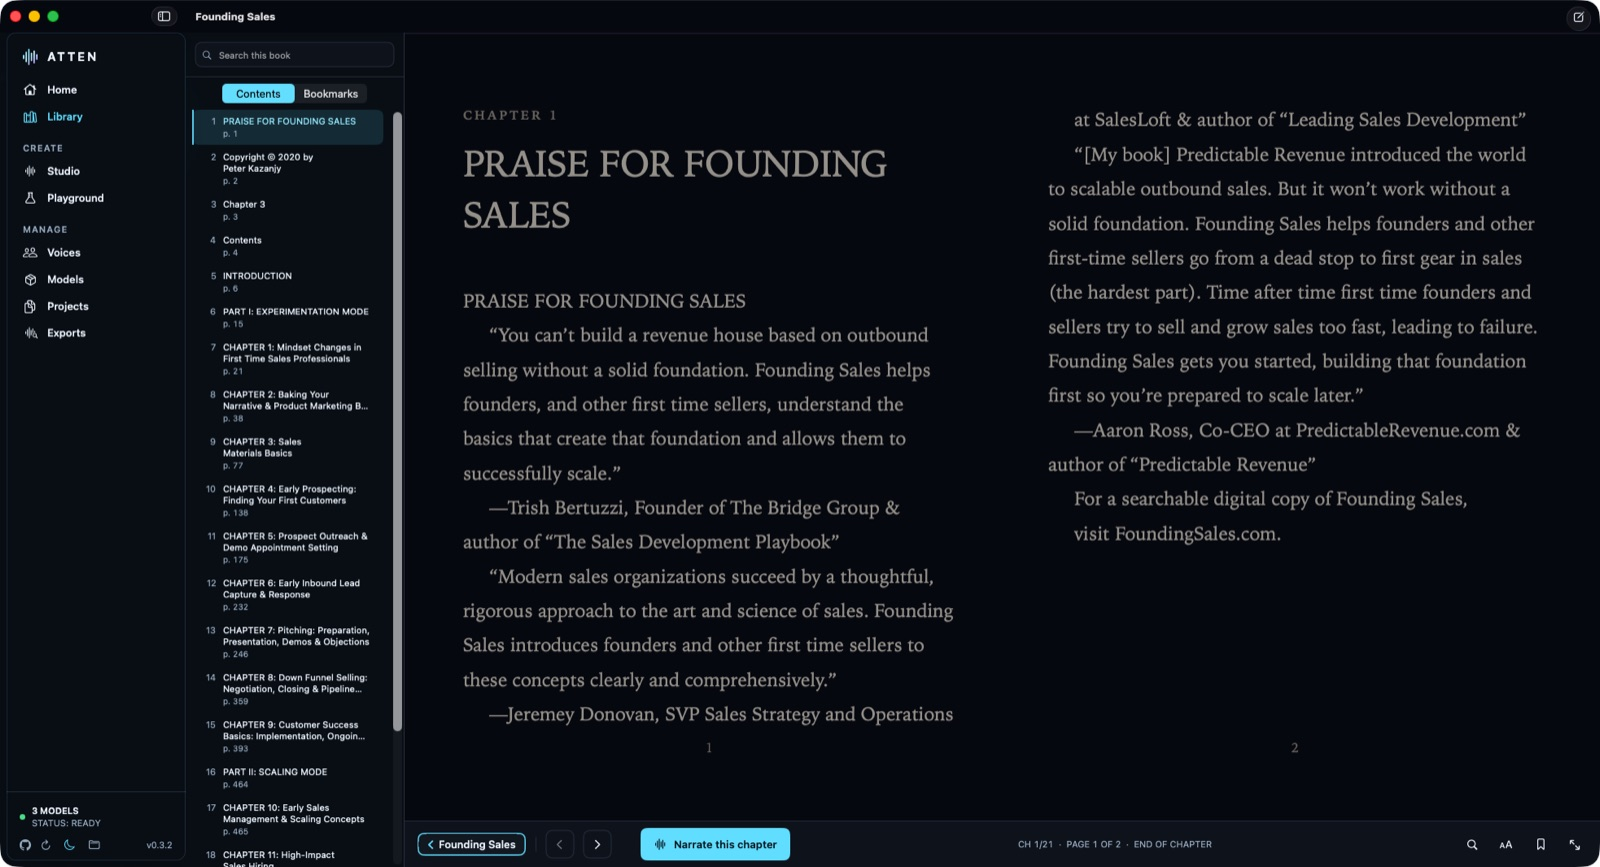
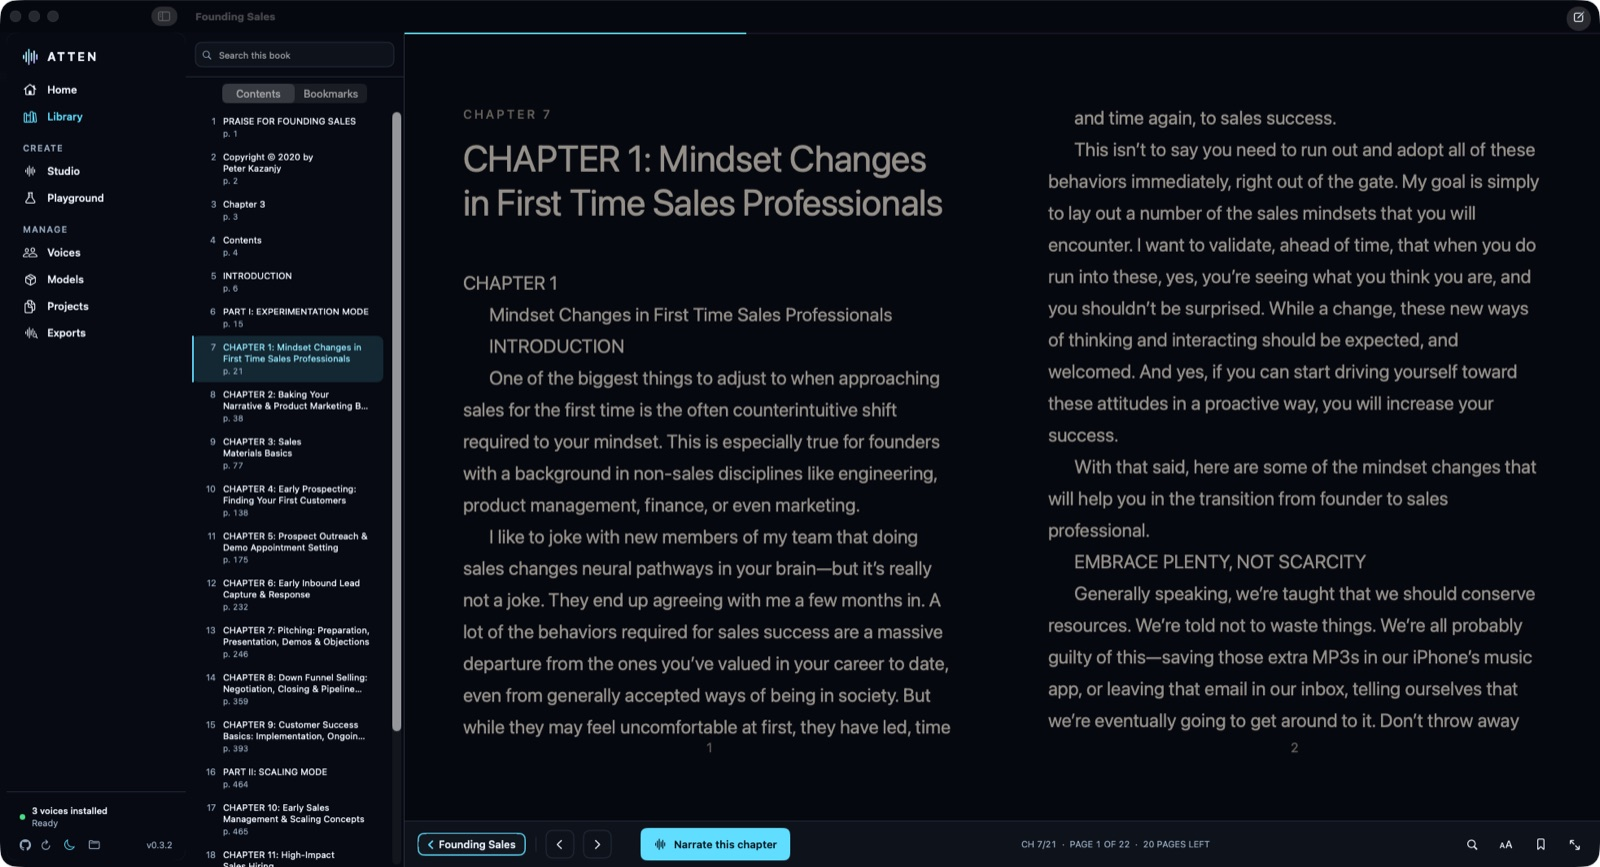
feat(shell): unbox the cards, soften the footer, put atmosphere behind
Review feedback continued: panels should flow rather than be boxed, and
the sidebar footer was shouting STATUS: READY at a reading app.

Home's cards lose their outlines — the fill and the hover lift carry
them. The footer says "3 voices installed / Ready" in sentence case.
The landing page's glow sits behind the detail column, low enough to
read as depth rather than as a wash.

Part of #23.

diff --git a/Sources/Atten/HomeView.swift b/Sources/Atten/HomeView.swift
@@ -128,10 +128,6 @@ private struct ContinueReadingCard: View {
             .padding(AttenSpacing.md)
             .background(isHovering ? AttenColor.surfaceElevated : AttenColor.surface)
             .clipShape(RoundedRectangle(cornerRadius: AttenRadius.card))
-            .overlay {
-                RoundedRectangle(cornerRadius: AttenRadius.card)
-                    .stroke(AttenColor.separator, lineWidth: 1)
-            }
             .contentShape(Rectangle())
             // Without this the focus ring hugs the label's intrinsic width and
             // stops short of the card it is supposed to be outlining.
@@ -194,10 +190,6 @@ private struct HomeRouteCard: View {
             .padding(AttenSpacing.md)
             .background(isHovering ? AttenColor.surfaceElevated : AttenColor.surface)
             .clipShape(RoundedRectangle(cornerRadius: AttenRadius.card))
-            .overlay {
-                RoundedRectangle(cornerRadius: AttenRadius.card)
-                    .stroke(AttenColor.separator, lineWidth: 1)
-            }
             .contentShape(Rectangle())
             // Without this the focus ring hugs the label's intrinsic width and
             // stops short of the card it is supposed to be outlining.

diff --git a/Sources/Atten/RootView.swift b/Sources/Atten/RootView.swift
@@ -81,8 +81,9 @@ struct RootView: View {
             sidebar
                 .navigationSplitViewColumnWidth(min: 196, ideal: 208, max: 232)
         } detail: {
-            ZStack {
+            ZStack(alignment: .top) {
                 AttenBackdrop()
+                AttenAtmosphere()
                 detail
             }
             .onAttenScreenTitle { screenTitle = $0 }
@@ -219,8 +220,8 @@ struct RootView: View {
                 .overlay(AttenColor.separator)
 
             StatusIndicator(
-                title: "\(model.library.installed.count) MODELS",
-                detail: model.backendIsAvailable ? "STATUS: READY" : "STATUS: OFFLINE",
+                title: "\(model.library.installed.count) voices installed",
+                detail: model.backendIsAvailable ? "Ready" : "Offline",
                 isAvailable: model.backendIsAvailable
             )
             .padding([.horizontal, .top], AttenSpacing.md)

diff --git a/Sources/Atten/DesignSystem.swift b/Sources/Atten/DesignSystem.swift
@@ -587,7 +587,7 @@ struct StatusIndicator: View {
                 .fill(isAvailable ? AttenColor.success : AttenColor.destructive)
                 .frame(width: 7, height: 7)
             VStack(alignment: .leading, spacing: 1) {
-                Text(title.uppercased()).font(AttenTypography.metadata.weight(.semibold))
+                Text(title).font(AttenTypography.metadata.weight(.medium))
                 Text(detail)
                     .font(AttenTypography.caption)
                     .foregroundStyle(AttenColor.textSecondary)
